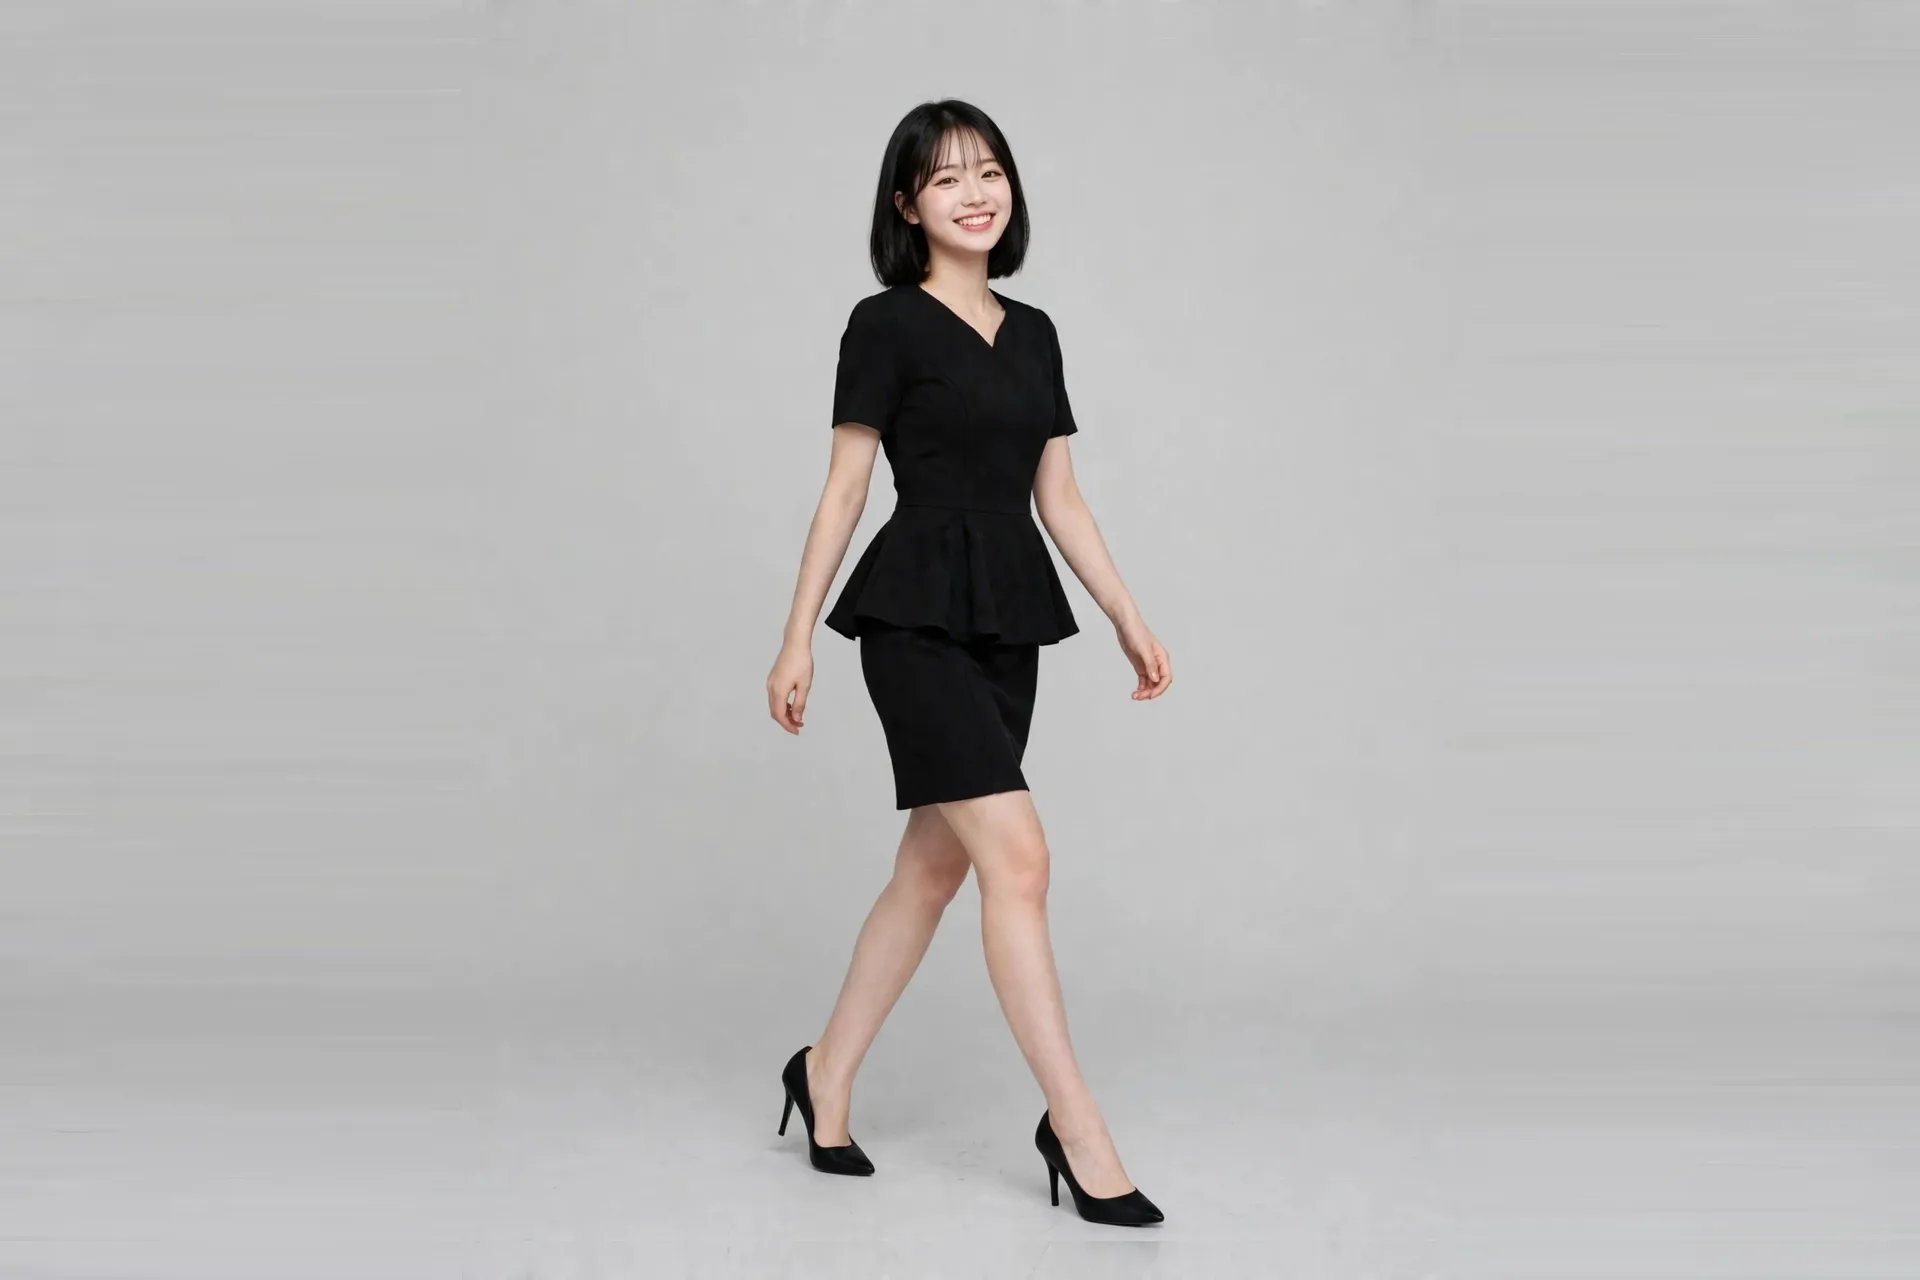
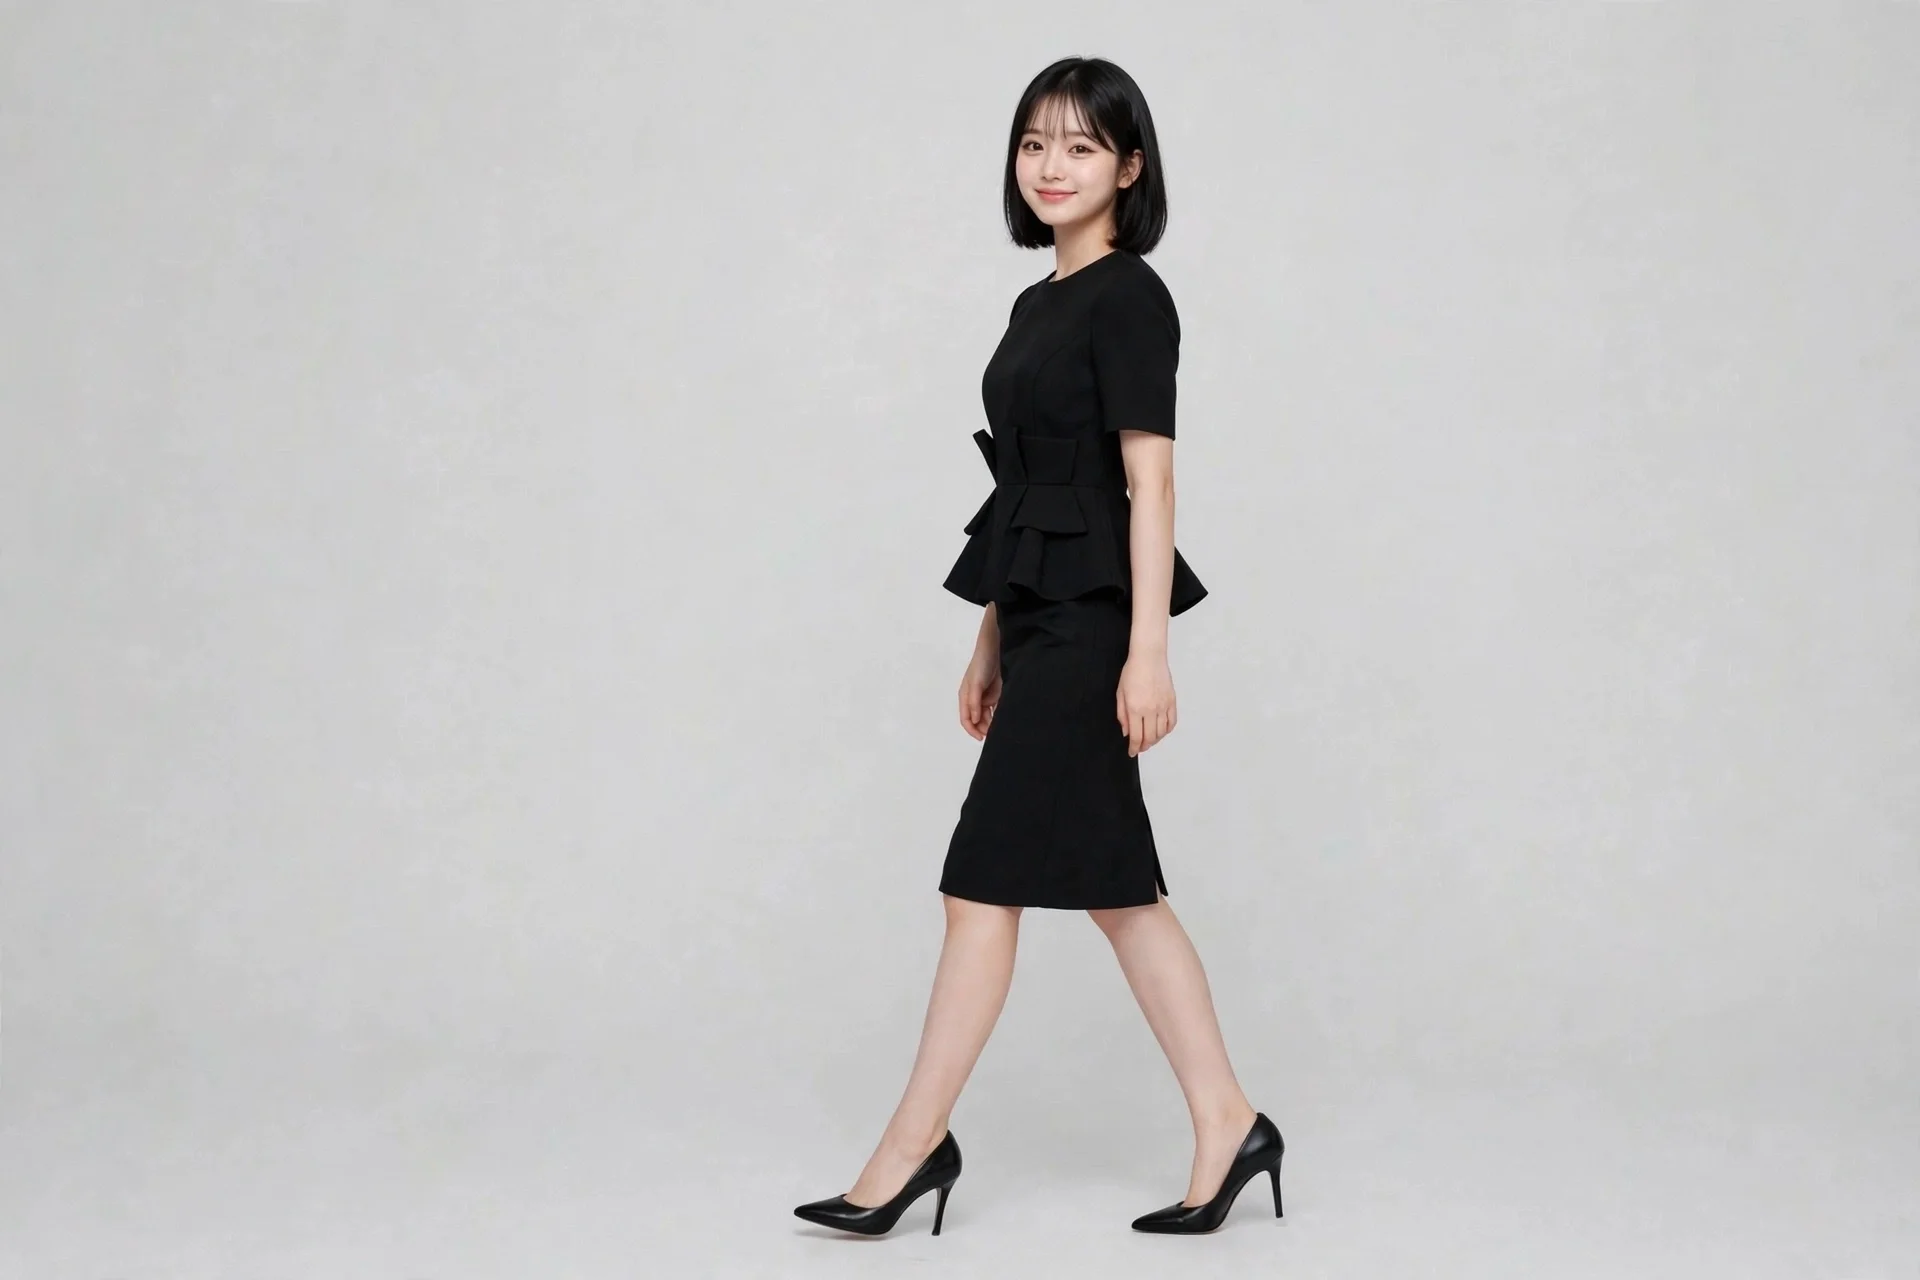
Fix Sena round2: front3 finger-heart, studio2-4 open mouth, w1 big grin (v264)

diff --git a/index.html b/index.html
@@ -51,7 +51,7 @@
 <body>
 <header>
   <h1 id="album-title">Mia's Album</h1>
-  <p id="album-sub">확정 얼굴 기준의 컷 모음 (총 177컷) · 버전 263</p>
+  <p id="album-sub">확정 얼굴 기준의 컷 모음 (총 177컷) · 버전 264</p>
   <div class="char-switch" role="tablist" aria-label="캐릭터 선택">
     <button type="button" class="char-btn active" id="btn-mia">Mia</button>
     <button type="button" class="char-btn" id="btn-sua">Sua</button>
@@ -375,12 +375,12 @@
     <div class="card" data-cap="Sena 줌인 4 — 와인 바디콘, 팔짱 올려다봄"><img src="img/sena-zoom-w4.webp" alt="Sena 줌인 4"><div class="cap">와인 바디콘 · 몽환</div></div>
     <div class="card" data-cap="Sena 정면 1 — 크림 니트, 정면 부드러운 미소"><img src="img/sena-front-w1.webp" alt="Sena 정면 1"><div class="cap">크림 니트 · 미소</div></div>
     <div class="card" data-cap="Sena 정면 2 — 검정 페플럼, 두 손 모으고 단정"><img src="img/sena-front-w2.webp" alt="Sena 정면 2"><div class="cap">검정 페플럼 · 단정</div></div>
-    <div class="card" data-cap="Sena 정면 3 — 레드 페플럼, 손가락 하트"><img src="img/sena-front-w3.webp" alt="Sena 정면 3"><div class="cap">레드 페플럼 · 손하트</div></div>
+    <div class="card" data-cap="Sena 정면 3 — 레드 페플럼 롱, 두 손 모으고 단정"><img src="img/sena-front-w3.webp" alt="Sena 정면 3"><div class="cap">레드 페플럼 · 손하트</div></div>
     <div class="card" data-cap="Sena 정면 4 — 와인 바디콘, 한 손 허리 미소"><img src="img/sena-front-w4.webp" alt="Sena 정면 4"><div class="cap">와인 바디콘 · 미소</div></div>
     <div class="card" data-cap="Sena 스튜디오2 1 — 실버 새틴 롱드레스, 앉아 턱 든 도도"><img src="img/sena-studio2-w1.webp" alt="Sena 스튜디오2 1"><div class="cap">실버 새틴 · 도도</div></div>
     <div class="card" data-cap="Sena 스튜디오2 2 — 네이비 페플럼, 워킹 잔잔한 미소"><img src="img/sena-studio2-w2.webp" alt="Sena 스튜디오2 2"><div class="cap">네이비 페플럼 · 워킹 미소</div></div>
     <div class="card" data-cap="Sena 스튜디오2 3 — 버건디 오프숄더 롱, 돌아봄 미소"><img src="img/sena-studio2-w3.webp" alt="Sena 스튜디오2 3"><div class="cap">버건디 오프숄더 · 돌아봄</div></div>
-    <div class="card" data-cap="Sena 스튜디오2 4 — 화이트 민소매 여름 원피스, 하이앵글 놀람"><img src="img/sena-studio2-w4.webp" alt="Sena 스튜디오2 4"><div class="cap">화이트 · 하이앵글 놀람</div></div>
+    <div class="card" data-cap="Sena 스튜디오2 4 — 화이트 민소매 여름 원피스, 하이앵글 잔잔한 미소"><img src="img/sena-studio2-w4.webp" alt="Sena 스튜디오2 4"><div class="cap">화이트 · 하이앵글 놀람</div></div>
     <div class="card" data-cap="Sena 스튜디오2 5 — 하늘 랩 원피스, 치마 잡고 윙크"><img src="img/sena-studio2-w5.webp" alt="Sena 스튜디오2 5"><div class="cap">하늘 랩 · 윙크</div></div>
     <div class="card" data-cap="Sena 스튜디오2 6 — 노란 새틴 선드레스, 스커트 살짝 잡고 미소"><img src="img/sena-studio2-w6.webp" alt="Sena 스튜디오2 6"><div class="cap">노란 새틴 · 스커트 잡고</div></div>
     <div class="card" data-cap="Sena 스튜디오2 7 — 아이보리 새틴 슬립, 바닥에 앉아 올려다봄"><img src="img/sena-studio2-w7.webp" alt="Sena 스튜디오2 7"><div class="cap">아이보리 새틴 · 앉아 올려다봄</div></div>
@@ -988,27 +988,27 @@
     btnYuna.classList.toggle('active', name === 'yuna');
     if (name === 'ciel'){
       albumTitle.textContent = "Ciel's Album";
-      albumSub.textContent = '단발 귀여운상 기준의 컷 모음 (총 4컷) · 버전 263';
+      albumSub.textContent = '단발 귀여운상 기준의 컷 모음 (총 4컷) · 버전 264';
       document.title = "Ciel's Album";
     } else if (name === 'sena'){
       albumTitle.textContent = "Sena's Album";
-      albumSub.textContent = '시크한 단발 귀염상 기준의 컷 모음 (총 50컷) · 버전 263';
+      albumSub.textContent = '시크한 단발 귀염상 기준의 컷 모음 (총 50컷) · 버전 264';
       document.title = "Sena's Album";
     } else if (name === 'sua'){
       albumTitle.textContent = "Sua's Album";
-      albumSub.textContent = '차분한 귀염상 기준의 컷 모음 (총 223컷) · 버전 263';
+      albumSub.textContent = '차분한 귀염상 기준의 컷 모음 (총 223컷) · 버전 264';
       document.title = "Sua's Album";
     } else if (name === 'lena'){
       albumTitle.textContent = "Lena's Album";
-      albumSub.textContent = '긴 웨이브 청순상 기준의 컷 모음 (총 0컷) · 버전 263';
+      albumSub.textContent = '긴 웨이브 청순상 기준의 컷 모음 (총 0컷) · 버전 264';
       document.title = "Lena's Album";
     } else if (name === 'yuna'){
       albumTitle.textContent = "Yuna's Album";
-      albumSub.textContent = '긴 웨이브 청순 성숙상 기준의 컷 모음 (총 87컷) · 버전 263';
+      albumSub.textContent = '긴 웨이브 청순 성숙상 기준의 컷 모음 (총 87컷) · 버전 264';
       document.title = "Yuna's Album";
     } else {
       albumTitle.textContent = "Mia's Album";
-      albumSub.textContent = '확정 얼굴 기준의 컷 모음 (총 177컷) · 버전 263';
+      albumSub.textContent = '확정 얼굴 기준의 컷 모음 (총 177컷) · 버전 264';
       document.title = "Mia's Album";
     }
     cards = allCards.filter(c => c.offsetParent !== null);

diff --git a/sw.js b/sw.js
@@ -1,4 +1,4 @@
-const CACHE = 'influencer-album-v263';
+const CACHE = 'influencer-album-v264';
 const IMGCACHE = 'album-images-v1';
 const CORE = ['./', './index.html', './manifest.webmanifest', './icon-192.png', './icon-512.png',
   './img/face-anchor.webp', './img/sua-anchor-main2.webp', './img/ciel-anchor-main.webp', './img/sena-anchor-main.webp', './img/lena-face-anchor.webp', './img/yuna-anchor-main2.webp'];
